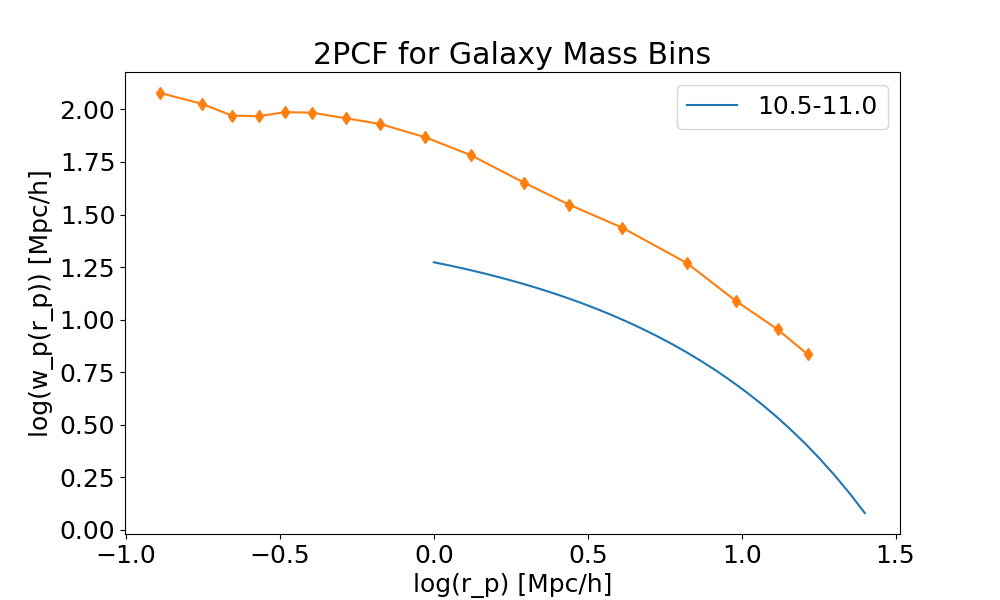
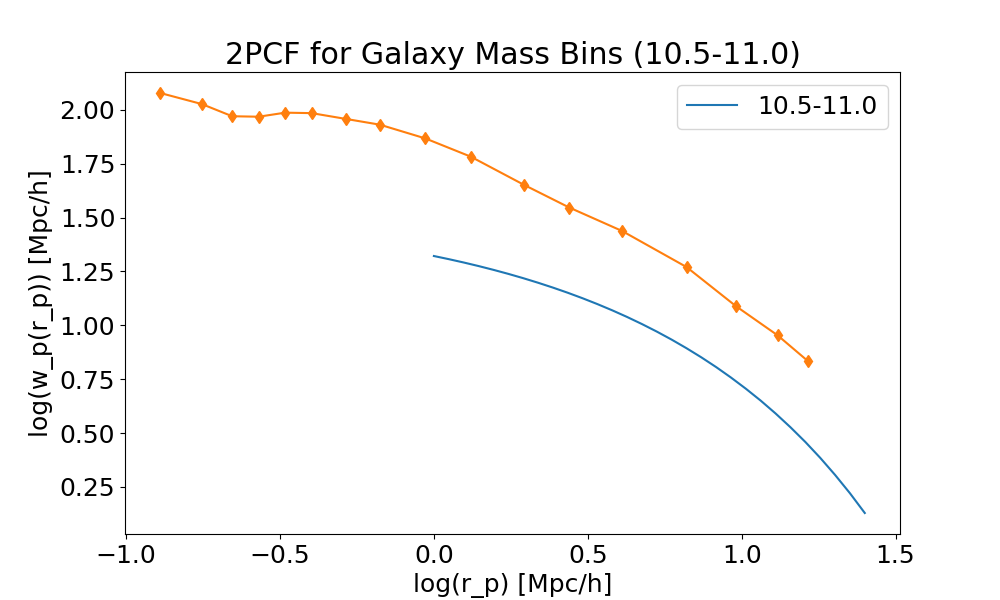
update: fixed bug (variable named wrong :p)

diff --git a/cc3.py b/cc3.py
@@ -14,6 +14,7 @@ from colossus.cosmology import cosmology
 from colossus.lss import peaks
 from colossus.lss import bias
 from cc2 import get_HMF, get_SMF, wpr, D_z_white, abundance_matching
+from scipy.interpolate import interp1d
 # plt.rcParams.update({'font.size': 18})
 
 # Planck 15 cosmology to match TNG50-1-Dark
@@ -28,7 +29,9 @@ def abundance_matching2(xvals, xarr, xdist, yarr, ydist, scatter=0.2):
     y_matched = np.interp(
         np.interp(xvals, xarr, cum_xdist), cum_ydist, yarr[::-1])
     scatter_array = np.random.normal(0, scatter, len(xvals))
-    return y_matched + scatter_array
+    abm = interp1d(np.flip(cum_ydist), np.flip(yarr),
+                   bounds_error=False, fill_value='extrapolate')(cum_xdist)
+    return abm
 
 
 def plot_histograms(halo_masses, galaxy_masses):
@@ -78,6 +81,9 @@ if __name__ == '__main__':
         MhaloCatalogue = np.array(f['Centrals']['M'])
         galaxy_positions = np.array(
             f['Centrals']['pos']) / 1e3  # Convert to cMpc/h
+    # Clear plots directory
+    for p in Path("plots").glob("2PCF_*.png"):
+        p.unlink()
 
     # Filter both MhaloCatalogue and galaxy_positions to ensure matching dimensions
     valid_indices = MhaloCatalogue >= 9
@@ -93,9 +99,8 @@ if __name__ == '__main__':
     SMF = get_SMF(np.array([0]), MstarArray)[0]
 
     # Perform abundance matching
-    # MstarCatalogue = abundance_matching2(
-    #     MhaloCatalogue, MhaloArray, 10**HMF, MstarArray, 10**SMF, scatter=0.2)
-    MstarCatalogue, Mstar_AbundanceMatched = abundance_matching(MhaloCatalogue, 10**HMF, MhaloArray, 10**SMF, MstarArray, scatter=0.15, fillVal='extrapolate')
+    MstarCatalogue = abundance_matching2(
+        MhaloCatalogue, MhaloArray, 10**HMF, MstarArray, 10**SMF, scatter=0.2)
 
     # Plot histograms
     plot_histograms(MhaloCatalogue, MstarCatalogue)
@@ -113,22 +118,19 @@ if __name__ == '__main__':
     # for i in range(len(split_MstarCatalogue)):
     #     bins.append((split_MstarCatalogue[i][0], split_MstarCatalogue[i][-1]))
 
-    bins = [(10.5, 11.0), (11.0, 11.5), (11.5, 12.0)]
+    bins = [(10.5, 11.0), (11.0, 11.5), (11.5, 12.0), (10.5, 12.0)]
     # Dz = cosmo.growthFactor(0)
     Dz = D_z_white(0.3, 0.)
-
-    for p in Path("plots").glob("2PCF_*.png"):
-        p.unlink()
 
     for i, (mass_min_unrounded, mass_max_unrounded) in enumerate(bins):
         mass_min = round(mass_min_unrounded, 2)
         mass_max = round(mass_max_unrounded, 2)
-        mask = (MstarCatalogue >= mass_min) & (MstarCatalogue <= mass_max)
+        mask = (MstarCatalogue > mass_min) & (MstarCatalogue < mass_max)
         logRp = np.linspace(0, 1.4, 30)
 
         # Compute bias
         try:
-            M = 10.**MhaloCatalogue[mask]
+            M = 10.**MstarCatalogue[mask]
             nu = peaks.peakHeight(M, 0.)
             halo_bias = bias.haloBiasFromNu(nu, model='sheth01')
 
@@ -141,7 +143,7 @@ if __name__ == '__main__':
             plt.figure(figsize=(10, 6))
             plt.xlabel("log(r_p) [Mpc/h]")
             plt.ylabel("log(w_p(r_p)) [Mpc/h]")
-            plt.title("2PCF for Galaxy Mass Bins")
+            plt.title(f"2PCF for Galaxy Mass Bins ({mass_min}-{mass_max})")
 
             # Load SDSS data
             cluster_data = "data/DataClusteringSDSScentrals11.12.txt"
@@ -156,19 +158,4 @@ if __name__ == '__main__':
             plt.legend()
             plt.savefig(f"plots/2PCF_{mass_min}-{mass_max}.png")
         except Exception as e:
-            print(f"Error computing 2PCF for mass bin {
-                  mass_min}-{mass_max}: {e}")
-
-    # print all bins
-    logRp = np.linspace(0, 1.4, 30)
-    plt.clf()
-    plt.figure(figsize=(10, 6))
-    plt.xlabel("log(r_p) [Mpc/h]")
-    plt.ylabel("log(w_p(r_p)) [Mpc/h]")
-    plt.title("2PCF for Galaxy Mass Bins")
-    for i, (mass_min_unrounded, mass_max_unrounded) in enumerate(bins):
-        mass_min = round(mass_min_unrounded, 2)
-        mass_max = round(mass_max_unrounded, 2)
-        plt.plot(logRp, np.log10(wp_projected), label=f"{mass_min}-{mass_max}")
-    plt.legend()
-    plt.savefig("plots/2PCF_all_bins.png")
+            print(f"{e}")

diff --git a/README.md b/README.md
@@ -18,4 +18,4 @@ values are optimal
 ![2PCF for Galaxy Mass Bin 10.5-11.0](./plots/2PCF_10.5-11.0.png)
 ![2PCF for Galaxy Mass Bin 11.0-11.5](./plots/2PCF_11.0-11.5.png)
 ![2PCF for Galaxy Mass Bin 11.5-12.0](./plots/2PCF_11.5-12.0.png)
-![2PCF for Galaxy Mass all bins](./plots/2PCF_all_bins.png)
+![2PCF for Galaxy Mass all bins](./plots/2PCF_10.5-12.0.png)
